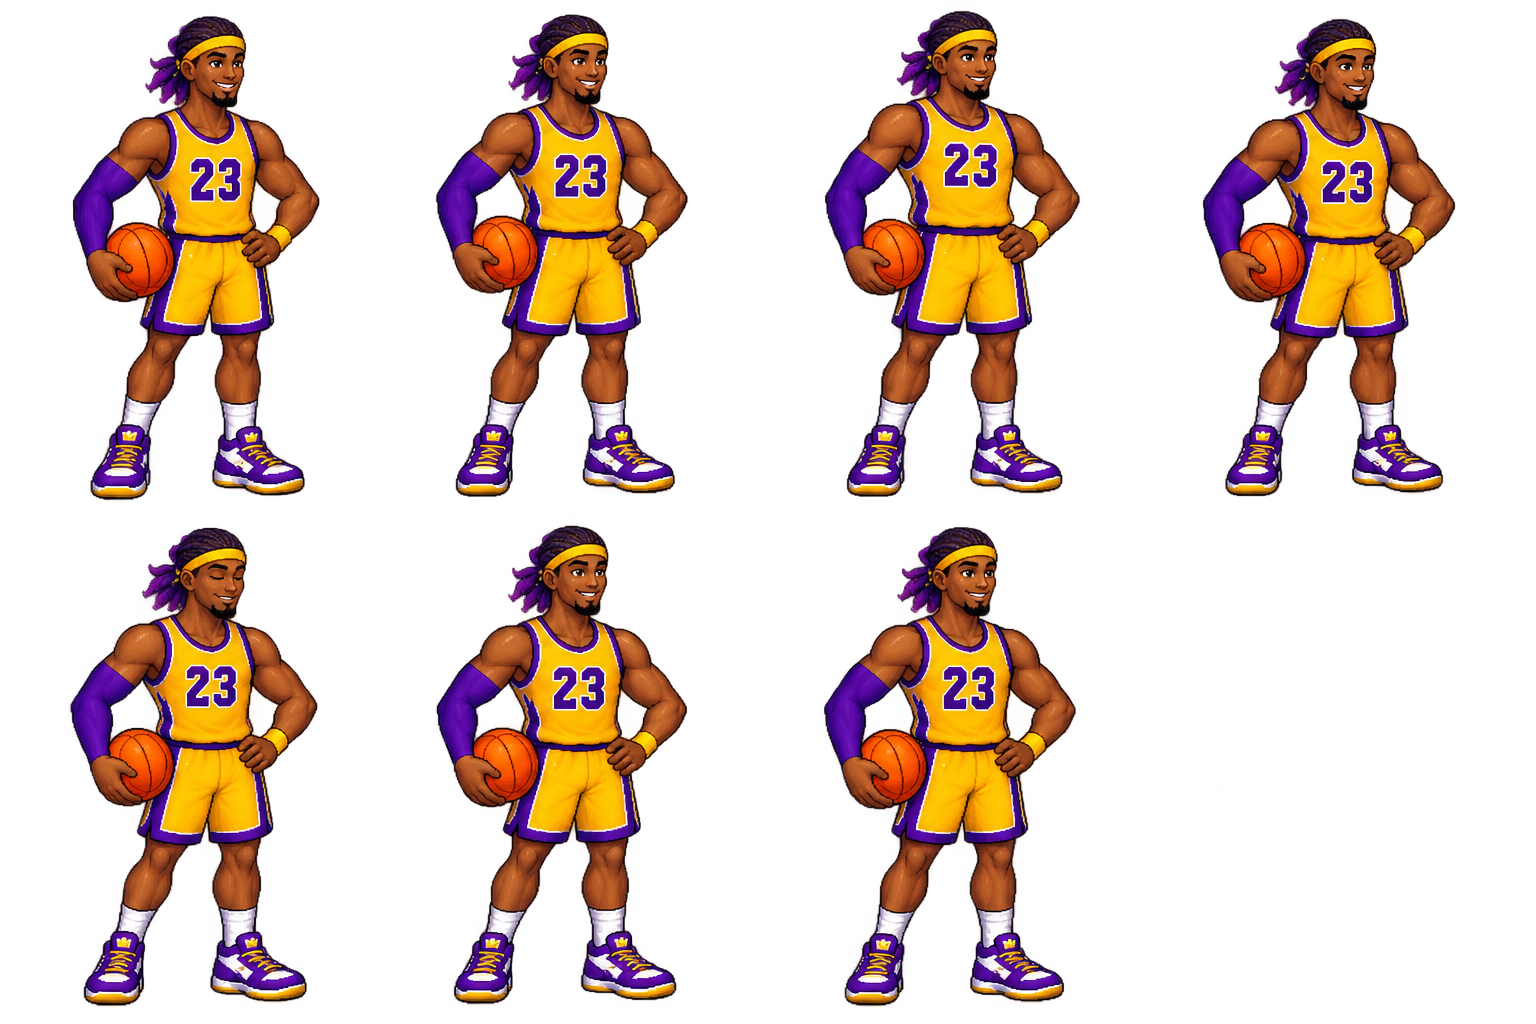
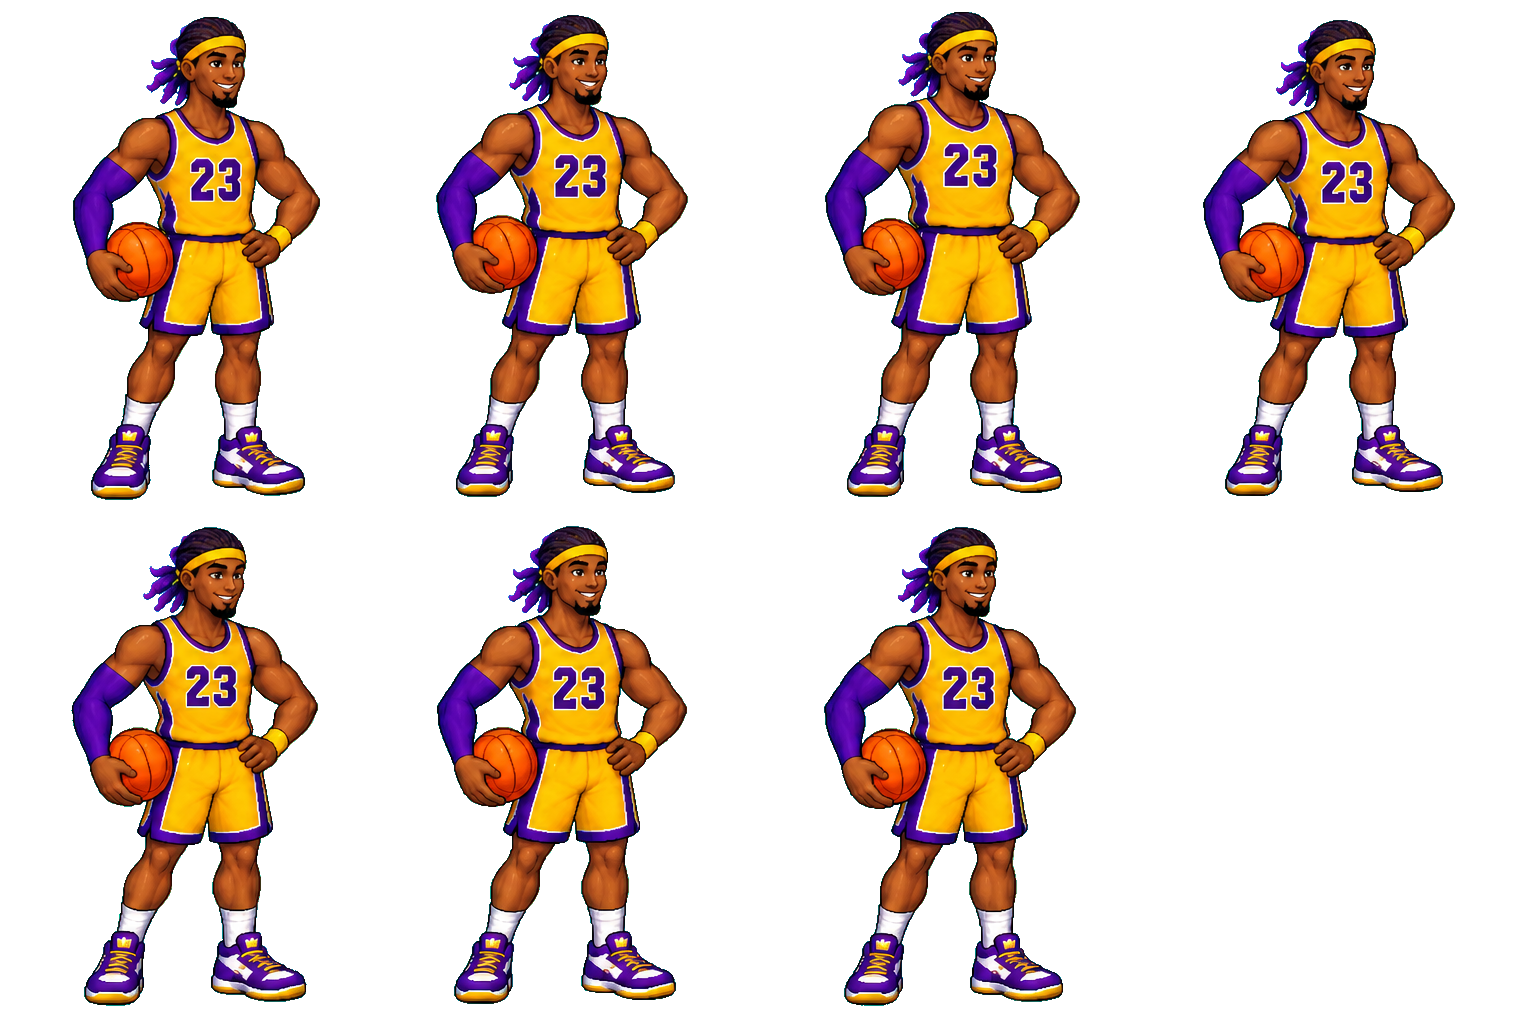
feat: polish player companions and pet scaling

diff --git a/RonaldinhoPet/main.swift b/RonaldinhoPet/main.swift
@@ -1,5 +1,13 @@
 import Cocoa
 
+private let minimumPetScale: CGFloat = 0.20
+private let maximumPetScale: CGFloat = 1.00
+private let defaultPetScale: CGFloat = 0.60
+
+private func clampedPetScale(_ scale: CGFloat) -> CGFloat {
+    min(maximumPetScale, max(minimumPetScale, scale))
+}
+
 private struct CompanionPet {
     let id: String
     let name: String
@@ -15,11 +23,17 @@ private struct CompanionPet {
 }
 
 private final class PetView: NSView {
+    private struct AnimationGeometry {
+        let cellSize: NSSize
+        let contentBounds: NSRect
+    }
+
     private let cellWidth: CGFloat = 192
     private let cellHeight: CGFloat = 208
     private let stateRootURL: URL
     private var spriteSheet: NSImage?
     private var animationSheets: [String: NSImage] = [:]
+    private var animationGeometry: [String: AnimationGeometry] = [:]
     private let animationSpecs: [String: (row: Int, frames: Int)] = [
         "idle": (0, 7),
         "running-right": (1, 8),
@@ -97,6 +111,7 @@ private final class PetView: NSView {
 
     private func load(_ pet: CompanionPet, from resourceRootURL: URL?) {
         animationSheets.removeAll()
+        animationGeometry.removeAll()
         guard let resourceRootURL else {
             spriteSheet = nil
             return
@@ -105,11 +120,69 @@ private final class PetView: NSView {
             spriteSheet = nil
             for state in animationSpecs.keys {
                 let url = resourceRootURL.appendingPathComponent(directory).appendingPathComponent("\(state).png")
-                animationSheets[state] = NSImage(contentsOf: url)
+                guard let image = NSImage(contentsOf: url), let animation = animationSpecs[state] else { continue }
+                animationSheets[state] = image
+                let size = NSSize(width: image.size.width / 4, height: image.size.height / 2)
+                if let bounds = alphaBounds(in: image, cellSize: size, frames: animation.frames, fixedRow: nil) {
+                    animationGeometry[state] = AnimationGeometry(cellSize: size, contentBounds: bounds)
+                }
             }
         } else {
             spriteSheet = NSImage(contentsOf: resourceRootURL.appendingPathComponent(pet.resource))
+            if let spriteSheet {
+                let size = NSSize(width: cellWidth, height: cellHeight)
+                for (state, animation) in animationSpecs {
+                    if let bounds = alphaBounds(in: spriteSheet, cellSize: size, frames: animation.frames, fixedRow: animation.row) {
+                        animationGeometry[state] = AnimationGeometry(cellSize: size, contentBounds: bounds)
+                    }
+                }
+            }
         }
+    }
+
+    private func alphaBounds(
+        in image: NSImage,
+        cellSize: NSSize,
+        frames: Int,
+        fixedRow: Int?
+    ) -> NSRect? {
+        guard let cgImage = image.cgImage(forProposedRect: nil, context: nil, hints: nil) else { return nil }
+        let width = cgImage.width
+        let height = cgImage.height
+        guard let context = CGContext(
+            data: nil,
+            width: width,
+            height: height,
+            bitsPerComponent: 8,
+            bytesPerRow: width * 4,
+            space: CGColorSpaceCreateDeviceRGB(),
+            bitmapInfo: CGImageAlphaInfo.premultipliedLast.rawValue
+        ) else { return nil }
+        context.draw(cgImage, in: CGRect(x: 0, y: 0, width: width, height: height))
+        guard let pixels = context.data?.assumingMemoryBound(to: UInt8.self) else { return nil }
+
+        let cellWidth = Int(cellSize.width)
+        let cellHeight = Int(cellSize.height)
+        var minX = cellWidth
+        var minY = cellHeight
+        var maxX = 0
+        var maxY = 0
+        for frame in 0..<frames {
+            let column = fixedRow == nil ? frame % 4 : frame
+            let row = fixedRow ?? frame / 4
+            let originX = column * cellWidth
+            let originY = row * cellHeight
+            for y in 0..<cellHeight {
+                for x in 0..<cellWidth where pixels[(originY + y) * width * 4 + (originX + x) * 4 + 3] > 8 {
+                    minX = min(minX, x)
+                    minY = min(minY, y)
+                    maxX = max(maxX, x + 1)
+                    maxY = max(maxY, y + 1)
+                }
+            }
+        }
+        guard minX < maxX, minY < maxY else { return nil }
+        return NSRect(x: minX, y: minY, width: maxX - minX, height: maxY - minY)
     }
 
     func selectPet(_ pet: CompanionPet, from resourceRootURL: URL?) {
@@ -423,7 +496,7 @@ private final class PetView: NSView {
 
         guard let animation = animationSpecs[displayedState],
               let spriteSheet = animationSheets[displayedState] ?? spriteSheet else {
-            let label = "Ronaldinho pet asset missing"
+            let label = "Companion asset missing"
             let attributes: [NSAttributedString.Key: Any] = [
                 .foregroundColor: NSColor.white,
                 .font: NSFont.systemFont(ofSize: 13, weight: .medium),
@@ -450,8 +523,24 @@ private final class PetView: NSView {
                 height: cellHeight
             )
         }
+        let destinationRect: NSRect
+        if let geometry = animationGeometry[displayedState] {
+            let target = petRect.insetBy(dx: 0, dy: petRect.height * 0.04)
+            let scale = min(
+                target.width / geometry.contentBounds.width,
+                target.height / geometry.contentBounds.height
+            )
+            destinationRect = NSRect(
+                x: target.midX - geometry.contentBounds.midX * scale,
+                y: target.midY - geometry.contentBounds.midY * scale,
+                width: geometry.cellSize.width * scale,
+                height: geometry.cellSize.height * scale
+            )
+        } else {
+            destinationRect = petRect
+        }
         spriteSheet.draw(
-            in: petRect,
+            in: destinationRect,
             from: sourceRect,
             operation: .sourceOver,
             fraction: 1,
@@ -570,9 +659,9 @@ private final class PetView: NSView {
 
         let storedScale = UserDefaults.standard.double(forKey: "petScale")
         let slider = NSSlider(
-            value: storedScale == 0 ? 0.60 : storedScale,
-            minValue: 0.25,
-            maxValue: 1.20,
+            value: Double(clampedPetScale(storedScale == 0 ? defaultPetScale : CGFloat(storedScale))),
+            minValue: Double(minimumPetScale),
+            maxValue: Double(maximumPetScale),
             target: NSApp.delegate as? AppDelegate,
             action: #selector(AppDelegate.changePetSize(_:))
         )
@@ -586,7 +675,7 @@ private final class PetView: NSView {
         sizeItem.view = sizeControl
         menu.addItem(sizeItem)
         menu.addItem(.separator())
-        let quitItem = menu.addItem(withTitle: "Quit Ronaldinho companion", action: #selector(AppDelegate.quit), keyEquivalent: "q")
+        let quitItem = menu.addItem(withTitle: "Quit Player Companions", action: #selector(AppDelegate.quit), keyEquivalent: "q")
         quitItem.target = NSApp.delegate as? AppDelegate
         NSMenu.popUpContextMenu(menu, with: event, for: self)
     }
@@ -599,7 +688,7 @@ final class AppDelegate: NSObject, NSApplicationDelegate {
     private lazy var connectionsWindow = ConnectionsWindowController()
     private var petScale: CGFloat {
         let stored = UserDefaults.standard.double(forKey: "petScale")
-        return stored == 0 ? 0.60 : CGFloat(stored)
+        return clampedPetScale(stored == 0 ? defaultPetScale : CGFloat(stored))
     }
 
     func applicationDidFinishLaunching(_ notification: Notification) {
@@ -626,7 +715,7 @@ final class AppDelegate: NSObject, NSApplicationDelegate {
                 self?.activateSession(bundleID: bundleID) ?? false
             },
             adjustPetScale: { [weak self] delta in
-                self?.setPetScale((self?.petScale ?? 0.35) + delta)
+                self?.setPetScale((self?.petScale ?? defaultPetScale) + delta, anchoredAt: NSEvent.mouseLocation)
             },
             setStatusPanelExpanded: { [weak self] expanded in
                 self?.setStatusPanelExpanded(expanded)
@@ -639,7 +728,10 @@ final class AppDelegate: NSObject, NSApplicationDelegate {
         self.panel = panel
         globalScrollMonitor = NSEvent.addGlobalMonitorForEvents(matching: .scrollWheel) { [weak self, weak panel] event in
             guard let self, let panel, panel.frame.contains(NSEvent.mouseLocation), event.scrollingDeltaY != 0 else { return }
-            self.setPetScale(self.petScale + max(-0.10, min(0.10, event.scrollingDeltaY * 0.01)))
+            self.setPetScale(
+                self.petScale + max(-0.10, min(0.10, event.scrollingDeltaY * 0.01)),
+                anchoredAt: NSEvent.mouseLocation
+            )
         }
         if !connectionsWindow.hasConnectedHost {
             DispatchQueue.main.async { [weak self] in self?.showConnections() }
@@ -703,15 +795,21 @@ final class AppDelegate: NSObject, NSApplicationDelegate {
         panel?.setFrame(initialFrame(statusExpanded: expanded), display: true, animate: false)
     }
 
-    private func setPetScale(_ scale: CGFloat) {
+    private func setPetScale(_ proposedScale: CGFloat, anchoredAt anchor: NSPoint? = nil) {
         guard let panel else { return }
-        let scale = min(1.20, max(0.25, scale))
+        let scale = clampedPetScale(proposedScale)
         let expanded = panel.frame.height > 260 * petScale + 26
+        let oldFrame = panel.frame
         UserDefaults.standard.set(Double(scale), forKey: "petScale")
-        let topRight = NSPoint(x: panel.frame.maxX, y: panel.frame.maxY)
-        var frame = panel.frame
+        let anchor = anchor ?? NSPoint(x: oldFrame.maxX, y: oldFrame.maxY)
+        let relativeX = (anchor.x - oldFrame.minX) / oldFrame.width
+        let relativeY = (anchor.y - oldFrame.minY) / oldFrame.height
+        var frame = oldFrame
         frame.size = panelSize(statusExpanded: expanded)
-        frame.origin = NSPoint(x: topRight.x - frame.width, y: topRight.y - frame.height)
+        frame.origin = NSPoint(
+            x: anchor.x - relativeX * frame.width,
+            y: anchor.y - relativeY * frame.height
+        )
         panel.setFrame(frame, display: true, animate: false)
     }
 

diff --git a/RonaldinhoPet/ConnectionsWindow.swift b/RonaldinhoPet/ConnectionsWindow.swift
@@ -18,7 +18,7 @@ final class ConnectionsWindowController: NSWindowController {
             backing: .buffered,
             defer: false
         )
-        window.title = "Ronaldinho Pet"
+        window.title = "Player Companions"
         window.isReleasedWhenClosed = false
         window.center()
         super.init(window: window)
@@ -47,7 +47,7 @@ final class ConnectionsWindowController: NSWindowController {
         title.textColor = accent
         content.addSubview(title)
 
-        let subtitle = NSTextField(labelWithString: "Choose which apps Ronaldinho should watch.")
+        let subtitle = NSTextField(labelWithString: "Choose which apps your companions should watch.")
         subtitle.frame = NSRect(x: 24, y: 160, width: 360, height: 20)
         subtitle.textColor = .white.withAlphaComponent(0.72)
         content.addSubview(subtitle)
@@ -120,7 +120,7 @@ final class ConnectionsWindowController: NSWindowController {
     @discardableResult
     private func run(host: PetHost, mode: String) throws -> String {
         guard let executable = Bundle.main.url(forResource: "RonaldinhoConfigureHooks", withExtension: nil) else {
-            throw NSError(domain: "RonaldinhoPet", code: 1, userInfo: [NSLocalizedDescriptionKey: "Connection helper is missing. Reinstall Ronaldinho Pet."])
+            throw NSError(domain: "RonaldinhoPet", code: 1, userInfo: [NSLocalizedDescriptionKey: "Connection helper is missing. Reinstall Player Companions."])
         }
         let process = Process()
         let output = Pipe()

diff --git a/RonaldinhoPet/configure-hooks.swift b/RonaldinhoPet/configure-hooks.swift
@@ -124,13 +124,13 @@ settings["hooks"] = hooks
 
 let petCommand = """
 ---
-description: Show the Ronaldinho companion pet.
+description: Show Player Companions.
 allowed-tools: Bash(/usr/bin/open:*)
 ---
 
 !`/usr/bin/open -a \(shellQuote(app))`
 
-Ronaldinho companion is ready.
+Player Companions is ready.
 """
 
 do {
@@ -171,6 +171,6 @@ do {
     }
 } catch { fail("Unable to configure \(host.name): \(error.localizedDescription)") }
 
-print("\(mode == "install" ? "Configured" : "Removed") Ronaldinho hooks for \(host.id).")
+print("\(mode == "install" ? "Configured" : "Removed") Player Companions hooks for \(host.id).")
 }
 }

diff --git a/RonaldinhoPet/state-tool.swift b/RonaldinhoPet/state-tool.swift
@@ -47,7 +47,7 @@ private func ingest(source: String) {
     guard let input = try? JSONSerialization.jsonObject(with: data) as? [String: Any],
           let sessionID = string(input, "session_id"),
           let event = string(input, "hook_event_name") else {
-        FileHandle.standardError.write(Data("Ronaldinho Pet ignored a hook without session_id/hook_event_name.\n".utf8))
+        FileHandle.standardError.write(Data("Player Companions ignored a hook without session_id/hook_event_name.\n".utf8))
         return
     }
 

diff --git a/README.md b/README.md
@@ -1,8 +1,8 @@
-# Ronaldinho Pet
+# Player Companions
 
-A small macOS companion for Claude Code, Claude Desktop, Codex CLI, and Codex
-App. It uses native hooks and keeps one state file per session, so concurrent
-terminals do not overwrite each other.
+A small macOS companion platform for Claude Code, Claude Desktop, Codex CLI,
+and Codex App. Choose a player pet while native hooks keep concurrent sessions
+visible without overwriting one another.
 
 ## Install on macOS
 
@@ -24,7 +24,7 @@ drag **RonaldinhoPet** to **Applications**. Open it and use **Connections** to
 connect Claude and Codex. The prebuilt release works on Apple
 Silicon and Intel Macs running macOS 13 or newer; Xcode is not required.
 
-After launch, right-click Ronaldinho and choose **Connections…** to connect or
+After launch, right-click the companion and choose **Connections…** to connect or
 disconnect Claude and Codex without using the terminal.
 
 Until the app has a Developer ID signature, macOS may require **right-click →

diff --git a/codex-skill/ronaldinho-pet/SKILL.md b/codex-skill/ronaldinho-pet/SKILL.md
@@ -1,9 +1,9 @@
 ---
 name: ronaldinho-pet
-description: Show or reopen the installed Ronaldinho activity companion. Use when the user invokes $ronaldinho-pet or asks Codex to show, open, or summon Ronaldinho Pet.
+description: Show or reopen Player Companions. Use when the user invokes $ronaldinho-pet or asks Codex to show, open, or summon the companion app.
 ---
 
-# Ronaldinho Pet
+# Player Companions
 
 Run exactly:
 
